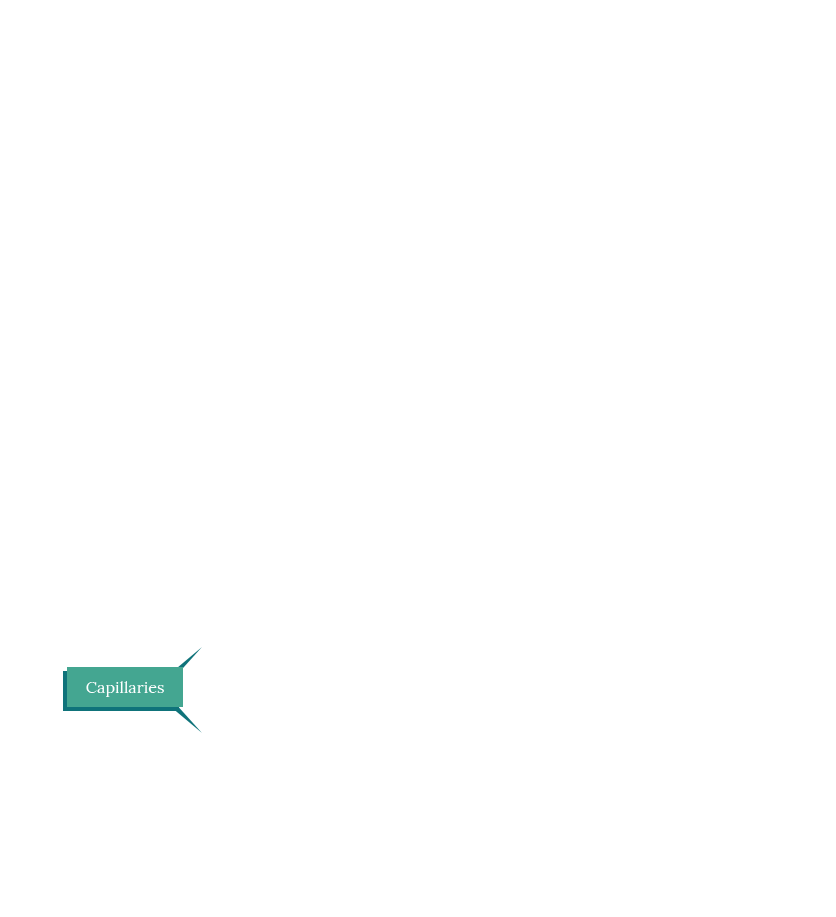
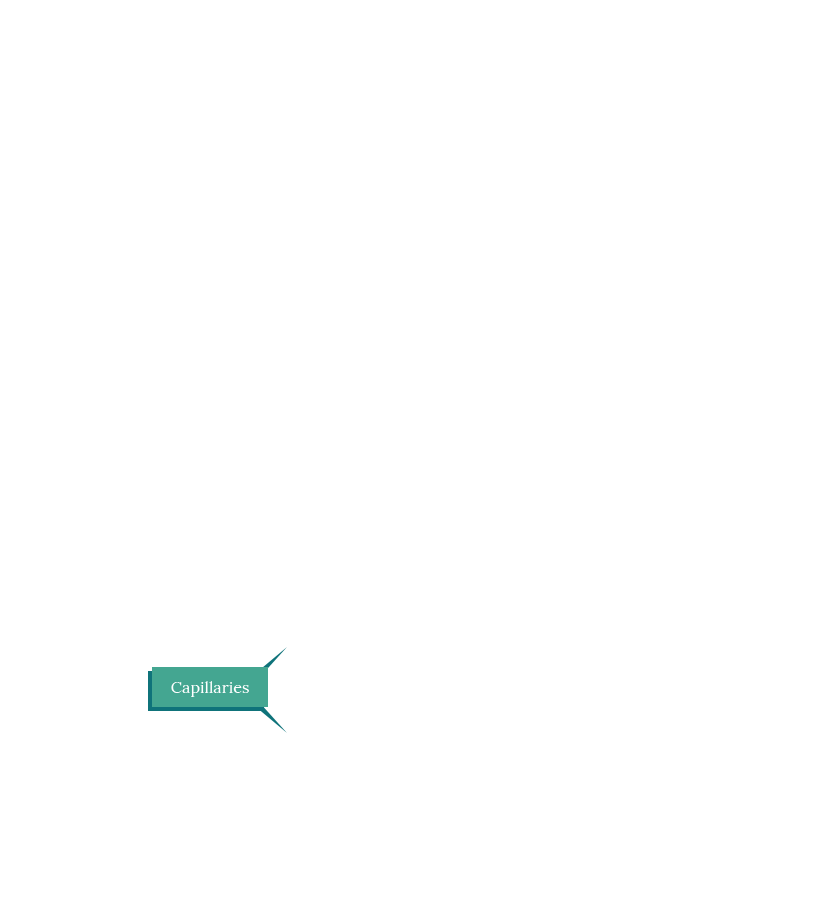
:Wednesday

Changed region(s): [[0.0622, 0.7023, 0.3421, 0.7939]]

diff --git a/src/app/section6/section6.component.scss b/src/app/section6/section6.component.scss
@@ -149,14 +149,20 @@ section {
     }
 }
 
-//Tablet
-@media only screen and (max-width: 1024.98px) {
+//Standart Monitors
+@media only screen and (max-width: 1366.98px) {
     section {
         .video-background {
             .video-container {
                 height: 450px;
             }
         }
+    }
+}
+
+//Tablet
+@media only screen and (max-width: 1024.98px) {
+    section {
         nav {
             .content {
                 .title {
@@ -216,6 +222,7 @@ section {
             }
         }
         .main {
+            background-size: auto;
             .content {
                 margin-top: 0;
                 .row{
@@ -284,6 +291,30 @@ section {
                             display: none;
                             &.on {
                                 display: block;
+                            }
+                        }
+                    }
+                    .helpful-links {
+                        .bottom {
+                            .container {
+                                .row {
+                                    div:not(last-of-type) {
+                                        margin-bottom: 15px;
+                                    }
+                                }
+                            }
+                            a.category {
+                                p {
+                                    font-size: 14px;
+                                    margin-bottom: 0;
+                                }
+                            }
+                            a.article {
+                                h3 {
+                                    font-size: 20px;
+                                    line-height: 26px;
+                                    padding: 1% 0% 3% 0%;
+                                }
                             }
                         }
                     }

diff --git a/src/app/footer/footer.component.html b/src/app/footer/footer.component.html
@@ -11,7 +11,7 @@
               <a href="http://docs.boehringer-ingelheim.com/Terms%20and%20Conditions/Website%20Terms%20and%20Conditions" target="_blank">Terms of Use</a>
             </li>
             <li>
-              <a href="https://www.bi-druginforequest.com/contactUsWeb/Controller.jpf?companyID=4&amp;type=2" class="interstitial" (click)="openExternal($event.target)">Contact Us</a>
+              <a href="https://www.bi-druginforequest.com/contactUsWeb/Controller.jpf?companyID=4&amp;type=2" target="_blank">Contact Us</a>
             </li>
             <!-- <li>
               <a href="/all-articles" class="interstitial">All Articles</a>
@@ -23,7 +23,7 @@
       <div class="row">
         <div class="col-12 col-md-9">
           <p class="note">Note: The physicians in the images appearing throughout this website are portrayed by actors unless otherwise noted.</p>
-          <p>THIS INFORMATION IS FOR U.S. RESIDENTS ONLY. COPYRIGHT © 2018, BOEHRINGER INGELHEIM PHARMACEUTICALS, INC. ALL RIGHTS RESERVED. USE OF THIS SITE IS SUBJECT TO THE INTERNET SITE LEGAL NOTICES AND DISCLAIMERS AND PRIVACY STATEMENT. 08/18 LUNGSANDYOU IS A TRADEMARK OF BOEHRINGER INGELHEIM PHARMACEUTICALS, INC.</p>
+          <p>THIS INFORMATION IS FOR U.S. RESIDENTS ONLY. COPYRIGHT © 2019, BOEHRINGER INGELHEIM PHARMACEUTICALS, INC. ALL RIGHTS RESERVED. USE OF THIS SITE IS SUBJECT TO THE INTERNET SITE LEGAL NOTICES AND DISCLAIMERS AND PRIVACY STATEMENT. 08/18 LUNGSANDYOU IS A TRADEMARK OF BOEHRINGER INGELHEIM PHARMACEUTICALS, INC.</p>
           <br/>
         </div>
         <div class="col-12 col-md-3 right">

diff --git a/src/assets/scss/section.scss b/src/assets/scss/section.scss
@@ -44,9 +44,9 @@ section {
             .row {
                 .placeholder {
                     height: 800px;
-                    // border-top: 1px dashed rgba(0, 0, 255, 0.5); //dev
-                    // border-bottom: 1px dashed rgba(255, 0, 0, .5); //dev
-                    // margin: -1px auto; //dev
+                    border-top: 1px dashed rgba(0, 0, 255, 0.5); //dev
+                    border-bottom: 1px dashed rgba(255, 0, 0, .5); //dev
+                    margin: -1px auto; //dev
                     &.step {
                         height: 200px;
                     }
@@ -195,13 +195,23 @@ section {
     }
 }
 
+//Standart Monitors
+@media only screen and (max-width: 1366.98px) {
+    section {
+        nav {
+            .content {
+                height: 450px;
+            }
+        }
+    }
+
+}
 
 //Tablet
 @media only screen and (max-width: 1024.98px) {
     section {
         nav {
             .content {
-                height: 450px;
                 .title {
                     .label {
                         margin-left: 0;
@@ -302,6 +312,9 @@ section {
             .content {
                 margin-top: 0;
                 .row {
+                    .placeholder {
+                        height: calc(100vh - 47px);
+                    }
                     .animation {
                         .slide-base {
                             width: calc(100vh - 47px);

diff --git a/src/index.html b/src/index.html
@@ -8,9 +8,15 @@
   <link href="https://fonts.googleapis.com/css?family=Lora" rel="stylesheet">
   <link rel="icon" type="image/x-icon" href="favicon.ico">
   <meta property="og:title" content="Understanding IPF Progression - Lungs and You" />
-  <meta property="og:type" content="Website" />
-  <meta property="og:url" content="/" />
-  <meta property="og:image" content="/assets/main-site/share.jpg" />
+  <meta property="og:type" content="Article" />
+  <meta property="og:url" content="http://d-lungsandyou.wdc-dev.com/understanding-ipf-progression/" />
+  <meta property="og:image" content="http://d-lungsandyou.wdc-dev.com/understanding-ipf-progression/assets/main-site/share.jpg" />
+  <meta property="og:description" content="TBD" />
+  <meta property="og:image:alt" content="Understanding IPF Progression - Lungs and You" />
+  <meta name="twitter:card" content="summary_large_image">
+  <meta name="twitter:image:src" content="http://d-lungsandyou.wdc-dev.com/understanding-ipf-progression/assets/main-site/share.jpg">
+  <meta name="twitter:title" content="Understanding IPF Progression - Lungs and You">
+  <meta name="twitter:description" content="TBD">
   <meta name="google-site-verification" content="u7yPq3wi2-LM0t2pHNOtRdvnx1fcqP3BucPUXDip8pI" />
 </head>
 <body>

diff --git a/src/app/section4/section4.component.html b/src/app/section4/section4.component.html
@@ -83,7 +83,7 @@
                 bringing them in the house left me huffing and puffing. I needed to rest before I could put my
                 groceries away. Any type of exercise that required a little more effort caused me to lose my breath.”</p>
               <br />
-              <p>&mdash; Gene, <span class="small">PERSON LIVING WITH THE</span><span> IPF</span></p>
+              <p>&mdash; Gene, <span class="small">PERSON LIVING WITH</span><span> IPF</span></p>
             </div>
           </div>
         </div>
@@ -137,7 +137,7 @@
                 <li>DLCO</li>
                 <li>Lung volume measurement (total lung capacity [TLC])</li>
                 <li>Arterial blood gas testing</li>
-                <li>Questionnaire, like the University of California San Diego Shortness of Breath Questionnaire</li>
+                <li>Questionnaire, like the <i>University of California San Diego Shortness of Breath Questionnaire</i></li>
               </ul>
             </div>
           </div>

diff --git a/src/app/shared/scroll.service.ts b/src/app/shared/scroll.service.ts
@@ -103,7 +103,7 @@ export class ScrollService {
     this.position($('#container-3-3'), $('#animation-3-3'), 0, pos);
     this.visibilityOn($('#placeholder-26'), $('#animation-3-3 #slide-26'), pos);
     this.visibilityOn($('#placeholder-27'), $('#animation-3-3 #slide-27'), pos);
-    this.fade($('#placeholder-28'), $('#animation-3-3 #slide-28'), 0, 1, pos);
+    this.fade($('#placeholder-27'), $('#animation-3-3 #slide-28'), 0, 1, pos);
     this.visibilityOn($('#placeholder-29'), $('#animation-3-3 #slide-29'), pos);
     this.fade($('#placeholder-29'), $('#animation-3-3 #slide-30'), 0, 1, pos);
     this.fade($('#placeholder-31'), $('#animation-3-3 #slide-31'), 0, 1, pos);

diff --git a/src/app/section3/section3.component.html b/src/app/section3/section3.component.html
@@ -93,7 +93,6 @@
           </div>
           <div id="placeholder-26" class="col-12 placeholder"></div>
           <div id="placeholder-27" class="col-12 placeholder"></div>
-          <div id="placeholder-28" class="col-12 placeholder"></div>
           <div class="col-12 placeholder"></div>
           <div class="text block-text col-8">
             <p>Some areas of the lung may be replaced by thick-walled cystic airspaces called <strong>“honeycombs,”</strong> which may be seen on HRCT scans. </p><br/>

diff --git a/src/app/section5/section5.component.scss b/src/app/section5/section5.component.scss
@@ -85,7 +85,10 @@ section {
                     .copy {
                         .big {
                             font-size: $mobile-font-size;
-                            line-height: 7.363vw;
+                            line-height: 7.64vw;
+                            &.lora {
+                                font-size: 4.86vw;
+                            }
                         }
                     }
                     .video {

diff --git a/src/app/section6/section6.component.html b/src/app/section6/section6.component.html
@@ -95,7 +95,7 @@
                     <p>Treating IPF</p>
                   </a>
                   <a class="article" href="https://www.ofev.com/about-ofev" (click)="openExternal($event.target)">
-                    <h3>Learn About a Prescription Treatment Option</h3>
+                    <h3>Learn About a Prescription IPF Treatment</h3>
                   </a>
                 </div>
                 <div class="col-12 col-md-4">
